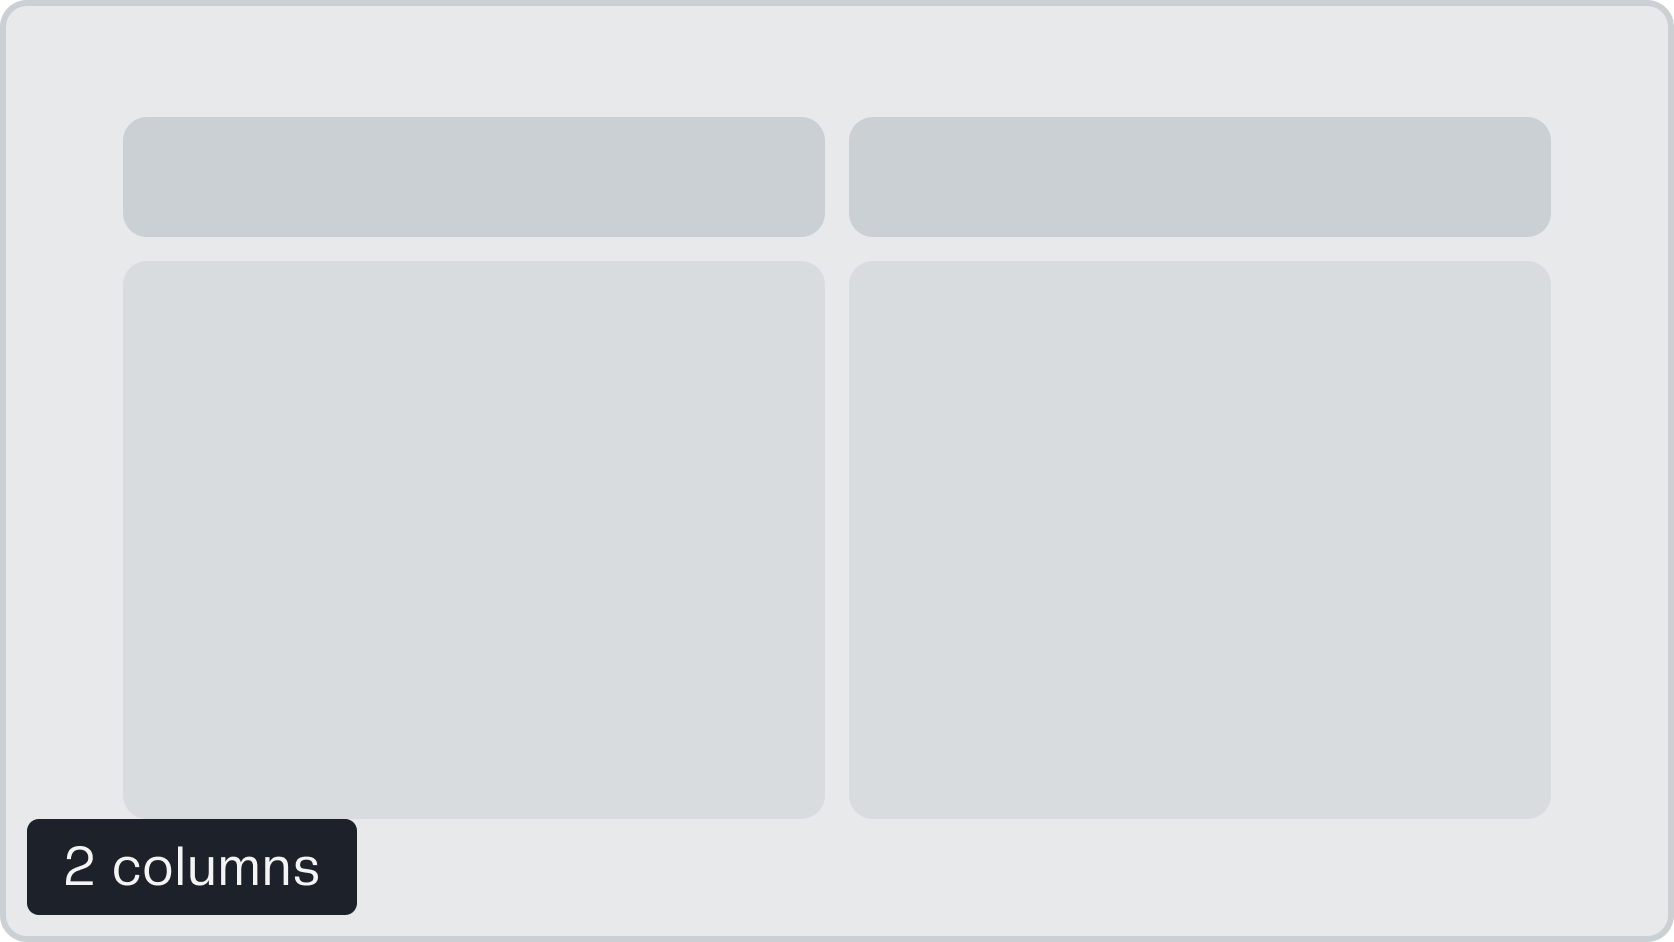
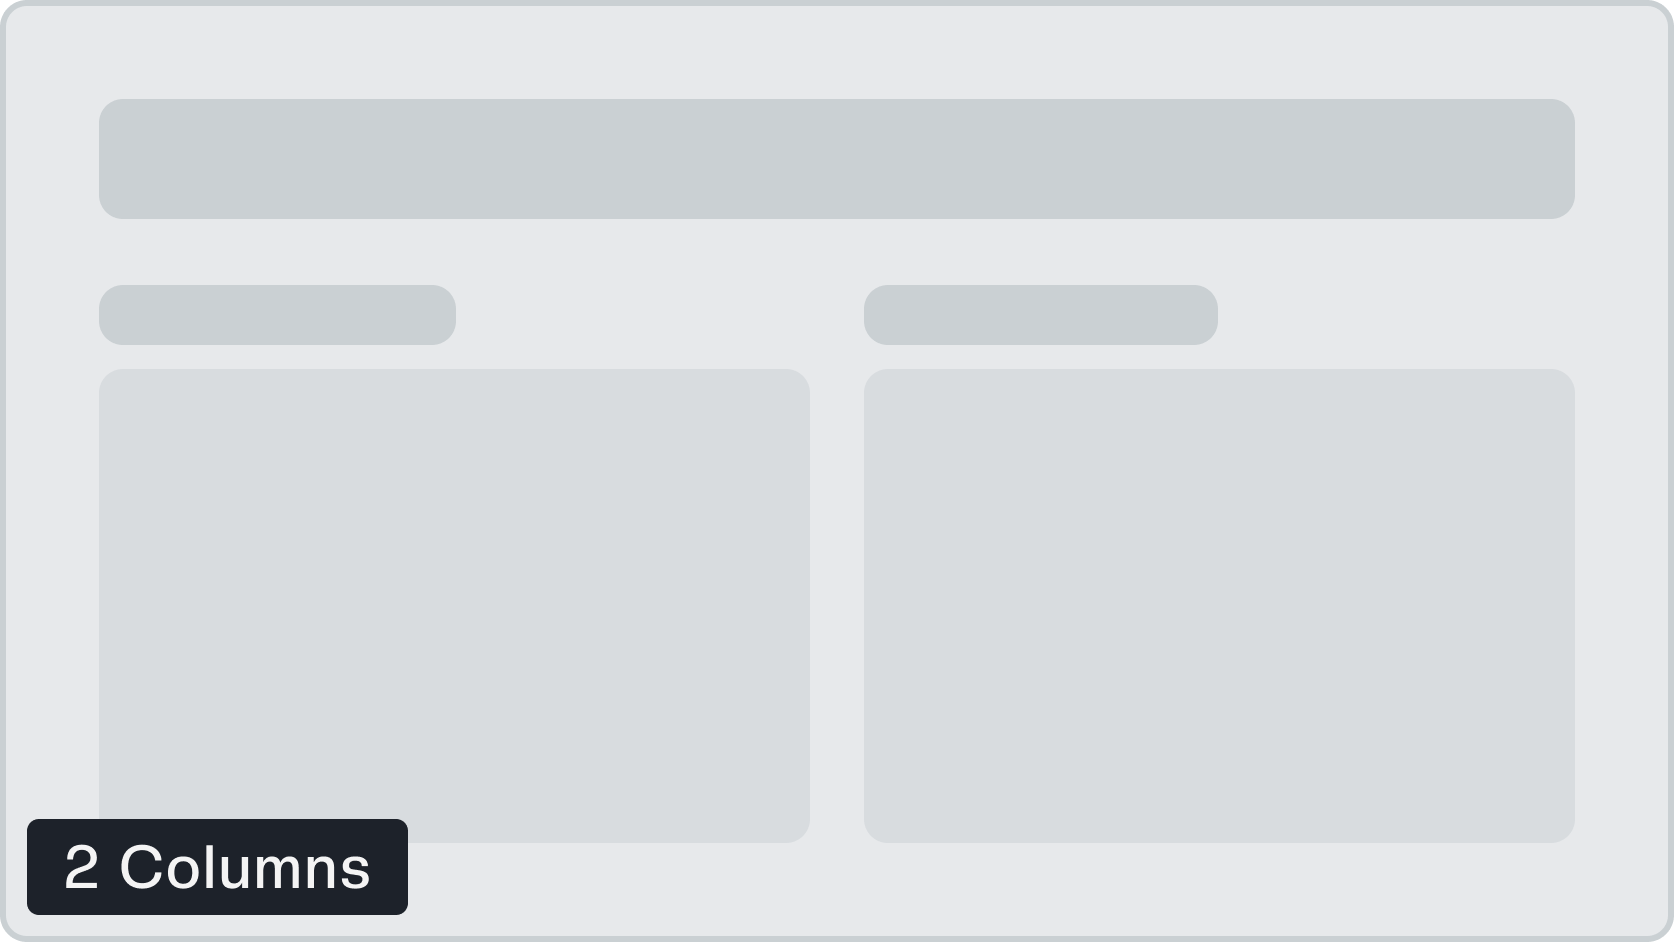
col1_img0 layout for default theme

Changed region(s): [[0.0621, 0.0924, 0.963, 0.2771], [0.0311, 0.862, 0.2485, 0.9851], [0.0621, 0.3079, 0.0932, 0.3694]]

diff --git a/tailwindui/components/slides/slideLayout.tsx b/tailwindui/components/slides/slideLayout.tsx
@@ -2,55 +2,85 @@ import React, { useEffect, useState, useMemo } from 'react'
 import { ImgModule } from '@/components/imgModule'
 import { MainSlideProps as BaseMainSlideProps } from './slideTemplates'
 import col1img0_png from '@/public/images/template/col1img0.png'
+import col2img0_png from '@/public/images/template/col2img0.png'
+import col3img0_png from '@/public/images/template/col3img0.png'
 import col2img1_png from '@/public/images/template/col2img1.png'
 import col3img2_png from '@/public/images/template/col3img2.png'
-
+import { useLocalImgs } from './slideTemplates'
 export type LayoutKeys =
   | ''
   | 'Col_1_img_0_layout'
+  | 'Col_2_img_0_layout'
+  | 'Col_3_img_0_layout'
   | 'Col_2_img_1_layout'
   | 'Col_3_img_2_layout'
+
 // Extend the interface with new fields
 interface MainSlideProps extends BaseMainSlideProps {}
 
-const useLocalImgs = (
-  imgs: string[],
-  imgCount: number,
-  update_callback: (imgs: string[]) => void
-) => {
-  const initialImgs = useMemo(() => {
-    let cleanedImgs = imgs.filter((url) => url !== '')
-    if (cleanedImgs.length > imgCount) {
-      cleanedImgs = cleanedImgs.slice(0, imgCount)
-    } else if (cleanedImgs.length < imgCount) {
-      cleanedImgs = [
-        ...cleanedImgs,
-        ...new Array(imgCount - cleanedImgs.length).fill(''),
-      ]
-    }
-    return cleanedImgs
-  }, [imgs, imgCount])
-
-  const [localImgs, setLocalImgs] = useState<string[]>(initialImgs)
-
-  useEffect(() => {
-    update_callback(localImgs)
-  }, [localImgs])
-
-  const updateImgAtIndex = (index: number) => {
-    const updateLocalImgs = (url: string) => {
-      const newLocalImgs = [...localImgs]
-      newLocalImgs[index] = url
-      setLocalImgs(newLocalImgs)
-      console.log('updateLocalImgs', newLocalImgs)
-    }
-    return updateLocalImgs
-  }
-
-  return { localImgs, updateImgAtIndex }
-}
-
 export const Col_1_img_0_layout = ({
+  user_name,
+  title,
+  topic,
+  subtopic,
+  content,
+  imgs,
+  update_callback,
+  canEdit,
+  autoSave,
+  isCoverPage,
+  layoutOption,
+}: MainSlideProps) => {
+  return (
+    <div className='h-full w-full flex flex-row overflow-hidden gap-[32px]'>
+      <div
+        className='w-full h-full grow p-1 text-neutral-900 text-opacity-70 text-sm font-normal font-creato-medium leading-[140%] tracking-[0.025rem]'
+        style={
+          {
+            // display: 'list-item',
+            //   listStyleType: 'disc',
+            //   listStylePosition: 'inside',
+            //   fontSize: '18pt',
+            //   marginLeft: '20px',
+          }
+        }
+      >
+        {content}
+      </div>
+    </div>
+  )
+}
+export const Col_2_img_0_layout = ({
+  user_name,
+  title,
+  topic,
+  subtopic,
+  content,
+  imgs,
+  update_callback,
+  canEdit,
+  autoSave,
+  isCoverPage,
+  layoutOption,
+}: MainSlideProps) => {
+  return (
+    <div className='h-full w-full flex flex-row overflow-hidden gap-[32px]'>
+      <div
+        className='w-full h-full grow p-1'
+        style={{
+          // display: 'list-item',
+          listStyleType: 'disc',
+          listStylePosition: 'inside',
+          fontSize: '18pt',
+          marginLeft: '20px',
+        }}
+      >
+        {content}
+      </div>
+    </div>
+  )
+}
+export const Col_3_img_0_layout = ({
   user_name,
   title,
   topic,
@@ -149,6 +179,8 @@ export const Col_3_img_2_layout = ({
 
 export const layoutOptions = {
   Col_1_img_0_layout: Col_1_img_0_layout,
+  Col_2_img_0_layout: Col_2_img_0_layout,
+  Col_3_img_0_layout: Col_3_img_0_layout,
   Col_2_img_1_layout: Col_2_img_1_layout,
   Col_3_img_2_layout: Col_3_img_2_layout,
 }
@@ -158,6 +190,14 @@ export const availableLayouts = {
     {
       name: 'Col_1_img_0_layout' as LayoutKeys,
       img: col1img0_png.src,
+    },
+    {
+      name: 'Col_2_img_0_layout' as LayoutKeys,
+      img: col2img0_png.src,
+    },
+    {
+      name: 'Col_3_img_0_layout' as LayoutKeys,
+      img: col3img0_png.src,
     },
     {
       name: 'Col_2_img_1_layout' as LayoutKeys,

diff --git a/tailwindui/components/slides/slideTemplates.tsx b/tailwindui/components/slides/slideTemplates.tsx
@@ -12,7 +12,7 @@ import { Berkeley_school_template } from './school_templates/Berkeley_school_tem
 import { Harvard_school_template } from './school_templates/Harvard_school_template'
 import { Stanford_school_template } from './school_templates/Stanford_school_template'
 
-// import { layoutOptions } from './slideLayout'
+import { layoutOptions } from './slideLayout'
 import {
   Col_1_img_0_layout,
   Col_2_img_1_layout,
@@ -35,7 +35,7 @@ export interface MainSlideProps {
   primaryColor?: string
 }
 
-const useLocalImgs = (
+export const useLocalImgs = (
   imgs: string[],
   imgCount: number,
   update_callback: (imgs: string[]) => void
@@ -201,12 +201,12 @@ export const Default_template = ({
   canEdit,
   autoSave,
   isCoverPage,
-  layoutOption,
+  layoutOption = 'Col_1_img_0_layout',
   primaryColor = 'bg-[#F0F0F2]',
 }: MainSlideProps) => {
   const { localImgs, updateImgAtIndex } = useLocalImgs(imgs, 1, update_callback)
-  //   const ChosenLayout = layoutOptions[layoutOption as keyof typeof layoutOptions]
-  //   console.log('choosing layout option', ChosenLayout)
+  const ChosenLayout = layoutOptions[layoutOption as keyof typeof layoutOptions]
+  console.log('choosing layout option', ChosenLayout)
   return (
     <>
       {/* for cover page slide */}
@@ -238,7 +238,7 @@ export const Default_template = ({
           />
         </div>
         {/* Logo */}
-        <div className='fixed inset-0 top-[90%] w-full justify-start items-center gap-7 inline-flex pl-[2rem]'>
+        <div className='fixed inset-0 top-[90%] w-full justify-start items-center gap-7 inline-flex pl-[2rem] pb-[2rem]'>
           <Image
             src={drlambdaLogo}
             alt='drlambdaLogo'
@@ -257,20 +257,22 @@ export const Default_template = ({
         } ${primaryColor}`}
       >
         <div
-          style={{
-            fontSize: '15pt',
-            fontWeight: 'bold',
-            marginTop: '10px',
-            color: '#2563EB',
-          }}
+          //   style={{
+          //     fontSize: '15pt',
+          //     fontWeight: 'bold',
+          //     marginTop: '10px',
+          //     color: '#2563EB',
+          //   }}
+          className=' text-black text-3xl font-bold font-creato-medium leading-[100%] pb-[2rem]'
         >
           {topic}
         </div>
         <div
-          style={{
-            fontSize: '20pt',
-            fontWeight: 'bold',
-          }}
+          //   style={{
+          //     fontSize: '20pt',
+          //     fontWeight: 'bold',
+          //   }}
+          className='mix-blend-hard-light text-neutral-900 text-base font-normal font-creato-medium uppercase leading-[150%] tracking-[0.15rem]'
         >
           {subtopic}
         </div>
@@ -291,7 +293,7 @@ export const Default_template = ({
         </div> */}
 
         {/* Use switch statement to render different layouts */}
-        {(() => {
+        {/* {(() => {
           switch (layoutOption) {
             case 'Col_1_img_0_layout':
               return (
@@ -345,7 +347,20 @@ export const Default_template = ({
             default:
               return null
           }
-        })()}
+        })()} */}
+        <ChosenLayout
+          content={content}
+          user_name={user_name}
+          title={title}
+          topic={topic}
+          subtopic={subtopic}
+          imgs={imgs}
+          update_callback={update_callback}
+          canEdit={canEdit}
+          autoSave={autoSave}
+          isCoverPage={isCoverPage}
+          layoutOption={layoutOption}
+        ></ChosenLayout>
         {/* company logo */}
         <div className='fixed inset-0 top-[90%] w-full h-14 justify-start items-center gap-7 inline-flex pl-[2rem] pb-[2rem]'>
           <Image

diff --git a/tailwindui/components/slides/templateDispatch.tsx b/tailwindui/components/slides/templateDispatch.tsx
@@ -5,7 +5,7 @@ import {
   templateSamples,
 } from '@/components/slides/slideTemplates'
 import { MathJax, MathJaxContext } from 'better-react-mathjax'
-import { LayoutKeys } from '@/components/slides/slideTemplates'
+import { LayoutKeys } from '@/components/slides/slideLayout'
 function wrapWithLiTags(content: string): string {
   if (!content.includes('<li>') || !content.includes('</li>')) {
     return `<li>${content}</li>`
@@ -31,7 +31,8 @@ export const templateDispatch = (
   toggleEditMathMode: () => void = () => {}, // Replace with your default function if you have one
 
   isCoverPage: boolean,
-  layoutOption: LayoutKeys
+  layoutOption: LayoutKeys,
+  brandingColor?: string
 ): JSX.Element => {
   let keyPrefix = ''
   if (exportToPdfMode) {
@@ -192,32 +193,34 @@ export const templateDispatch = (
         if (content.includes('$$') || content.includes('\\(')) {
           if (editMathMode) {
             return (
-              <div
-                key={
-                  keyPrefix + index.toString() + '_' + contentIndex.toString()
-                }
-                className={`rounded-md outline-2 ${
-                  !exportToPdfMode && 'overflow-hidden'
-                } ${
-                  canEdit
-                    ? 'hover:outline-[#CAD0D3] focus:hover:outline-black hover:outline'
-                    : ''
-                }${index === 0 ? 'hidden' : ''}`}
-                contentEditable={canEdit}
-                // style={listStyle}
-                onFocus={() => {
-                  if (canEdit) {
-                    setIsEditMode(true)
+              <>
+                <div
+                  key={
+                    keyPrefix + index.toString() + '_' + contentIndex.toString()
                   }
-                }}
-                onBlur={(e) => {
-                  const modifiedContent = [...slide.content]
-                  modifiedContent[contentIndex] = e.target.innerText
-                  handleSlideEdit(modifiedContent, index, 'content')
-                }}
-              >
-                {content}
-              </div>
+                  className={`rounded-md outline-2 border-4 border-black ${
+                    !exportToPdfMode && 'overflow-hidden'
+                  } ${
+                    canEdit
+                      ? 'hover:outline-[#CAD0D3] focus:hover:outline-black hover:outline'
+                      : ''
+                  }${index === 0 ? 'hidden' : ''} `}
+                  contentEditable={canEdit}
+                  // style={listStyle}
+                  onFocus={() => {
+                    if (canEdit) {
+                      setIsEditMode(true)
+                    }
+                  }}
+                  onBlur={(e) => {
+                    const modifiedContent = [...slide.content]
+                    modifiedContent[contentIndex] = e.target.innerText
+                    handleSlideEdit(modifiedContent, index, 'content')
+                  }}
+                >
+                  {content}
+                </div>
+              </>
             )
           } else {
             return (
@@ -278,6 +281,7 @@ export const templateDispatch = (
       update_callback={updateImgUrlArray(index)}
       isCoverPage={isCoverPage}
       layoutOption={layoutOption}
+      primaryColor={brandingColor}
     />
   )
   // }

diff --git a/tailwindui/components/slides/NewSlidesHTML.tsx b/tailwindui/components/slides/NewSlidesHTML.tsx
@@ -473,43 +473,6 @@ const SlidesHTML: React.FC<SlidesHTMLProps> = ({
     return content
   }
 
-  // useEffect(() => {
-  //     console.log(`present: ${present}`)
-  //     if (!containerRef.current || !slideRef.current) {
-  //         return // Exit if containerRef is not loaded
-  //     }
-
-  //     setDimensions({ width: window.innerWidth, height: window.innerHeight })
-
-  //     const resizeSlide = () => {
-  //         if (!present && containerRef.current && slideRef.current) {
-  //             let scale = 1
-  //             const viewWidth = window.innerWidth
-  //             if (viewWidth < 976) {
-  //                 scale = (viewWidth - 80) / 960
-  //                 containerRef.current.style.height = present
-  //                     ? '100%'
-  //                     : `${540 * scale}px`
-  //                 containerRef.current.style.width = present
-  //                     ? '100%'
-  //                     : `${960 * scale}px`
-  //                 slideRef.current.style.transform = `scale(${scale})`
-  //                 slideRef.current.style.left = `-${(960 * (1 - scale)) / 2}px`
-  //                 slideRef.current.style.top = `-${(540 * (1 - scale)) / 2}px`
-  //             } else {
-  //                 ; (containerRef.current.style.height = present ? '100%' : '540px'),
-  //                     (containerRef.current.style.width = present ? '100%' : '960px'),
-  //                     (slideRef.current.style.transform = `scale(1)`)
-  //                 slideRef.current.style.left = ''
-  //                 slideRef.current.style.top = ''
-  //             }
-  //         }
-  //     }
-  //     window.addEventListener('resize', resizeSlide)
-  //     resizeSlide()
-  //     console.log('resize')
-  // }, [slideRef.current, containerRef.current])
-
   const editableTemplateDispatch = (
     slide: Slide,
     index: number,
